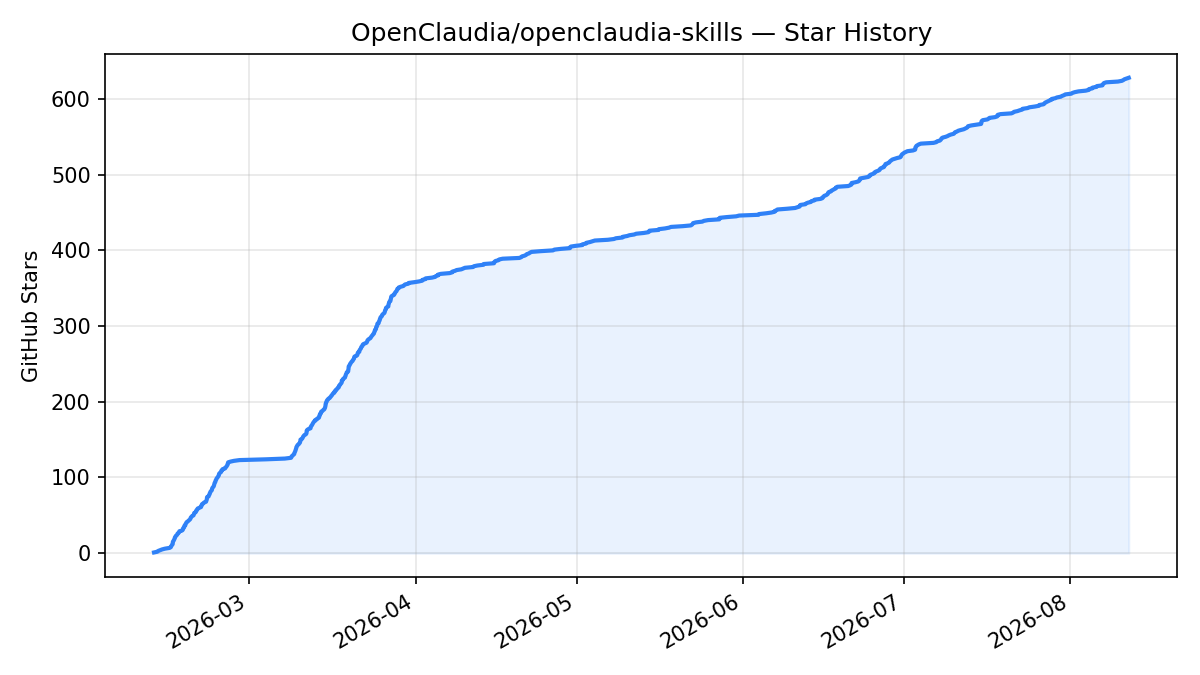
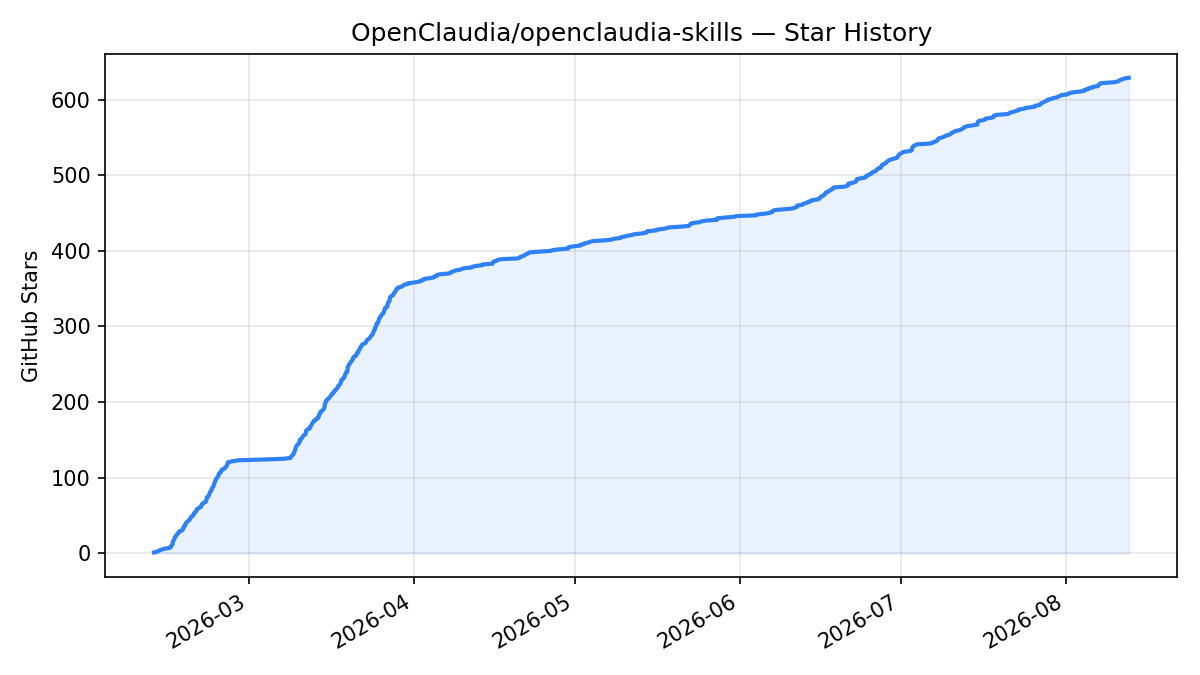
readme: refresh star chart (629 stars)

diff --git a/README.md b/README.md
@@ -333,7 +333,7 @@ MIT — see [LICENSE](LICENSE)
 
 ![Star History Chart](assets/star-history.png)
 
-<sub>Updated 2026-08-11. GitHub [restricted the stargazers API](https://github.blog/changelog/2026-06-30-upcoming-access-restrictions-to-public-api-endpoints-and-ui-views/) in June 2026, so the live star-history.com badge no longer renders; this chart is generated from the repo's own star data.</sub>
+<sub>Updated 2026-08-12. GitHub [restricted the stargazers API](https://github.blog/changelog/2026-06-30-upcoming-access-restrictions-to-public-api-endpoints-and-ui-views/) in June 2026, so the live star-history.com badge no longer renders; this chart is generated from the repo's own star data.</sub>
 
 ---
 
